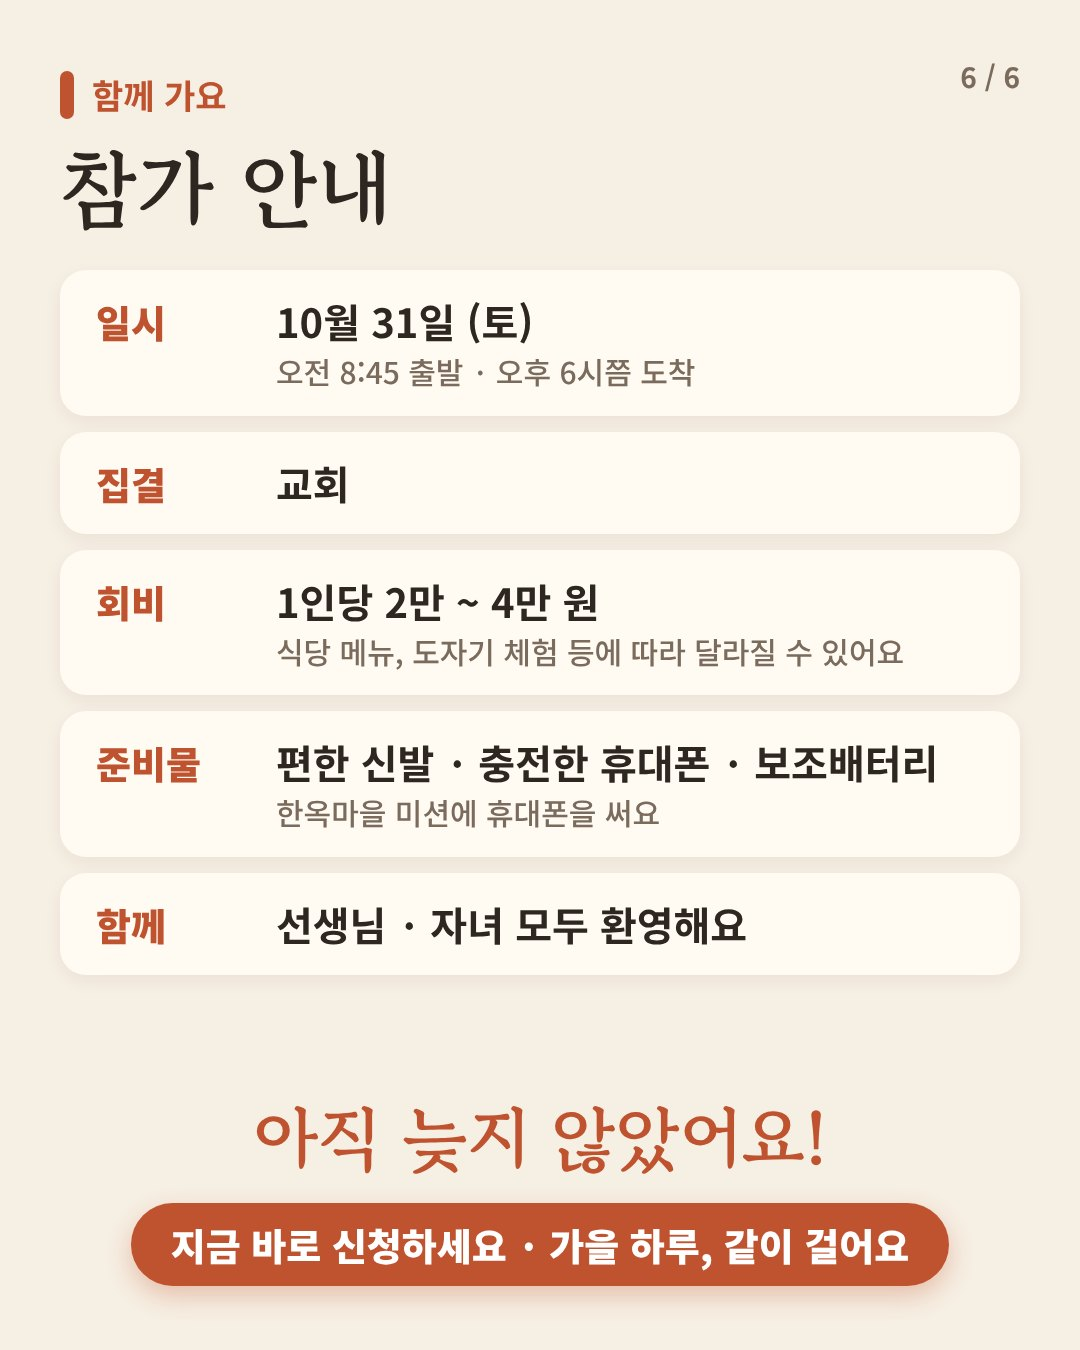
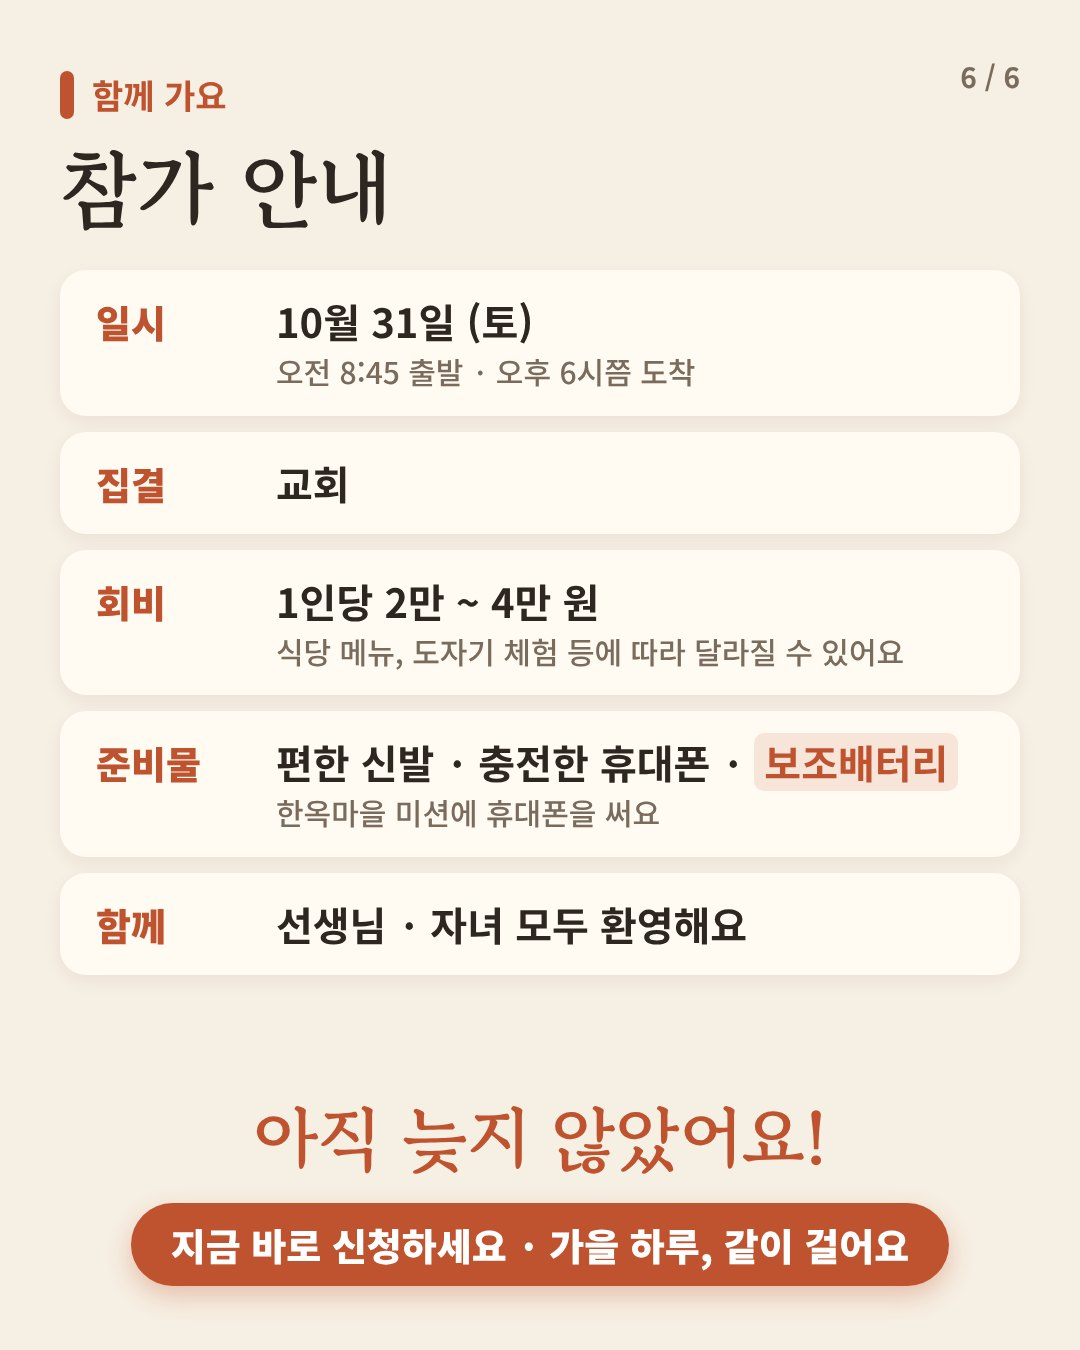
Trip slides: highlight 보조배터리 in the accent color
Claude-Session: https://claude.ai/code/session_01JuxhZRu3y7UEdGURrJz1RJ

Changed region(s): [[0.7028, 0.5289, 0.8861, 0.5911]]

diff --git a/trip/index.html b/trip/index.html
@@ -48,7 +48,7 @@ header span{font-size:13px;color:var(--muted);font-weight:700;font-variant-numer
 <header><h1>비전 중등부 · 익산·전주 하루 여행</h1><span id="count">1 / 6</span></header>
 <div class="stage">
   <button class="nav prev" id="prev" aria-label="이전 장">‹</button>
-  <div class="track" id="track" tabindex="0" aria-label="카드뉴스"><figure class="slide" id="s1" aria-roledescription="slide" aria-label="1 / 6"><img src="card1.jpg" alt="표지: 익산·전주 하루 여행, 10월 31일(토) 오전 8시 45분 교회 집결" draggable="false"></figure><figure class="slide" id="s2" aria-roledescription="slide" aria-label="2 / 6"><img src="card2.jpg" alt="하루 일정: 08:45 출발부터 18:00 도착까지" draggable="false"></figure><figure class="slide" id="s3" aria-roledescription="slide" aria-label="3 / 6"><img src="card3.jpg" alt="오전: 익산 고스락 모닝커피와 장독대 산책, 전주 굴비정식 점심" draggable="false"></figure><figure class="slide" id="s4" aria-roledescription="slide" aria-label="4 / 6"><img src="card4.jpg" alt="오후: 도자기 만들기 체험과 전주 한옥마을 투어" draggable="false"></figure><figure class="slide" id="s5" aria-roledescription="slide" aria-label="5 / 6"><img src="card5.jpg" alt="한옥마을 투어는 비전 퀘스트로: 포켓몬 GO처럼 걸으며 하는 팀 미션 게임" draggable="false"></figure><figure class="slide" id="s6" aria-roledescription="slide" aria-label="6 / 6"><img src="card6.jpg?v=2" alt="참가 안내: 일시, 집결, 회비, 준비물" draggable="false"></figure></div>
+  <div class="track" id="track" tabindex="0" aria-label="카드뉴스"><figure class="slide" id="s1" aria-roledescription="slide" aria-label="1 / 6"><img src="card1.jpg" alt="표지: 익산·전주 하루 여행, 10월 31일(토) 오전 8시 45분 교회 집결" draggable="false"></figure><figure class="slide" id="s2" aria-roledescription="slide" aria-label="2 / 6"><img src="card2.jpg" alt="하루 일정: 08:45 출발부터 18:00 도착까지" draggable="false"></figure><figure class="slide" id="s3" aria-roledescription="slide" aria-label="3 / 6"><img src="card3.jpg" alt="오전: 익산 고스락 모닝커피와 장독대 산책, 전주 굴비정식 점심" draggable="false"></figure><figure class="slide" id="s4" aria-roledescription="slide" aria-label="4 / 6"><img src="card4.jpg" alt="오후: 도자기 만들기 체험과 전주 한옥마을 투어" draggable="false"></figure><figure class="slide" id="s5" aria-roledescription="slide" aria-label="5 / 6"><img src="card5.jpg" alt="한옥마을 투어는 비전 퀘스트로: 포켓몬 GO처럼 걸으며 하는 팀 미션 게임" draggable="false"></figure><figure class="slide" id="s6" aria-roledescription="slide" aria-label="6 / 6"><img src="card6.jpg?v=3" alt="참가 안내: 일시, 집결, 회비, 준비물" draggable="false"></figure></div>
   <button class="nav next" id="next" aria-label="다음 장">›</button>
 </div>
 <div class="dots" id="dots" role="tablist"></div>
